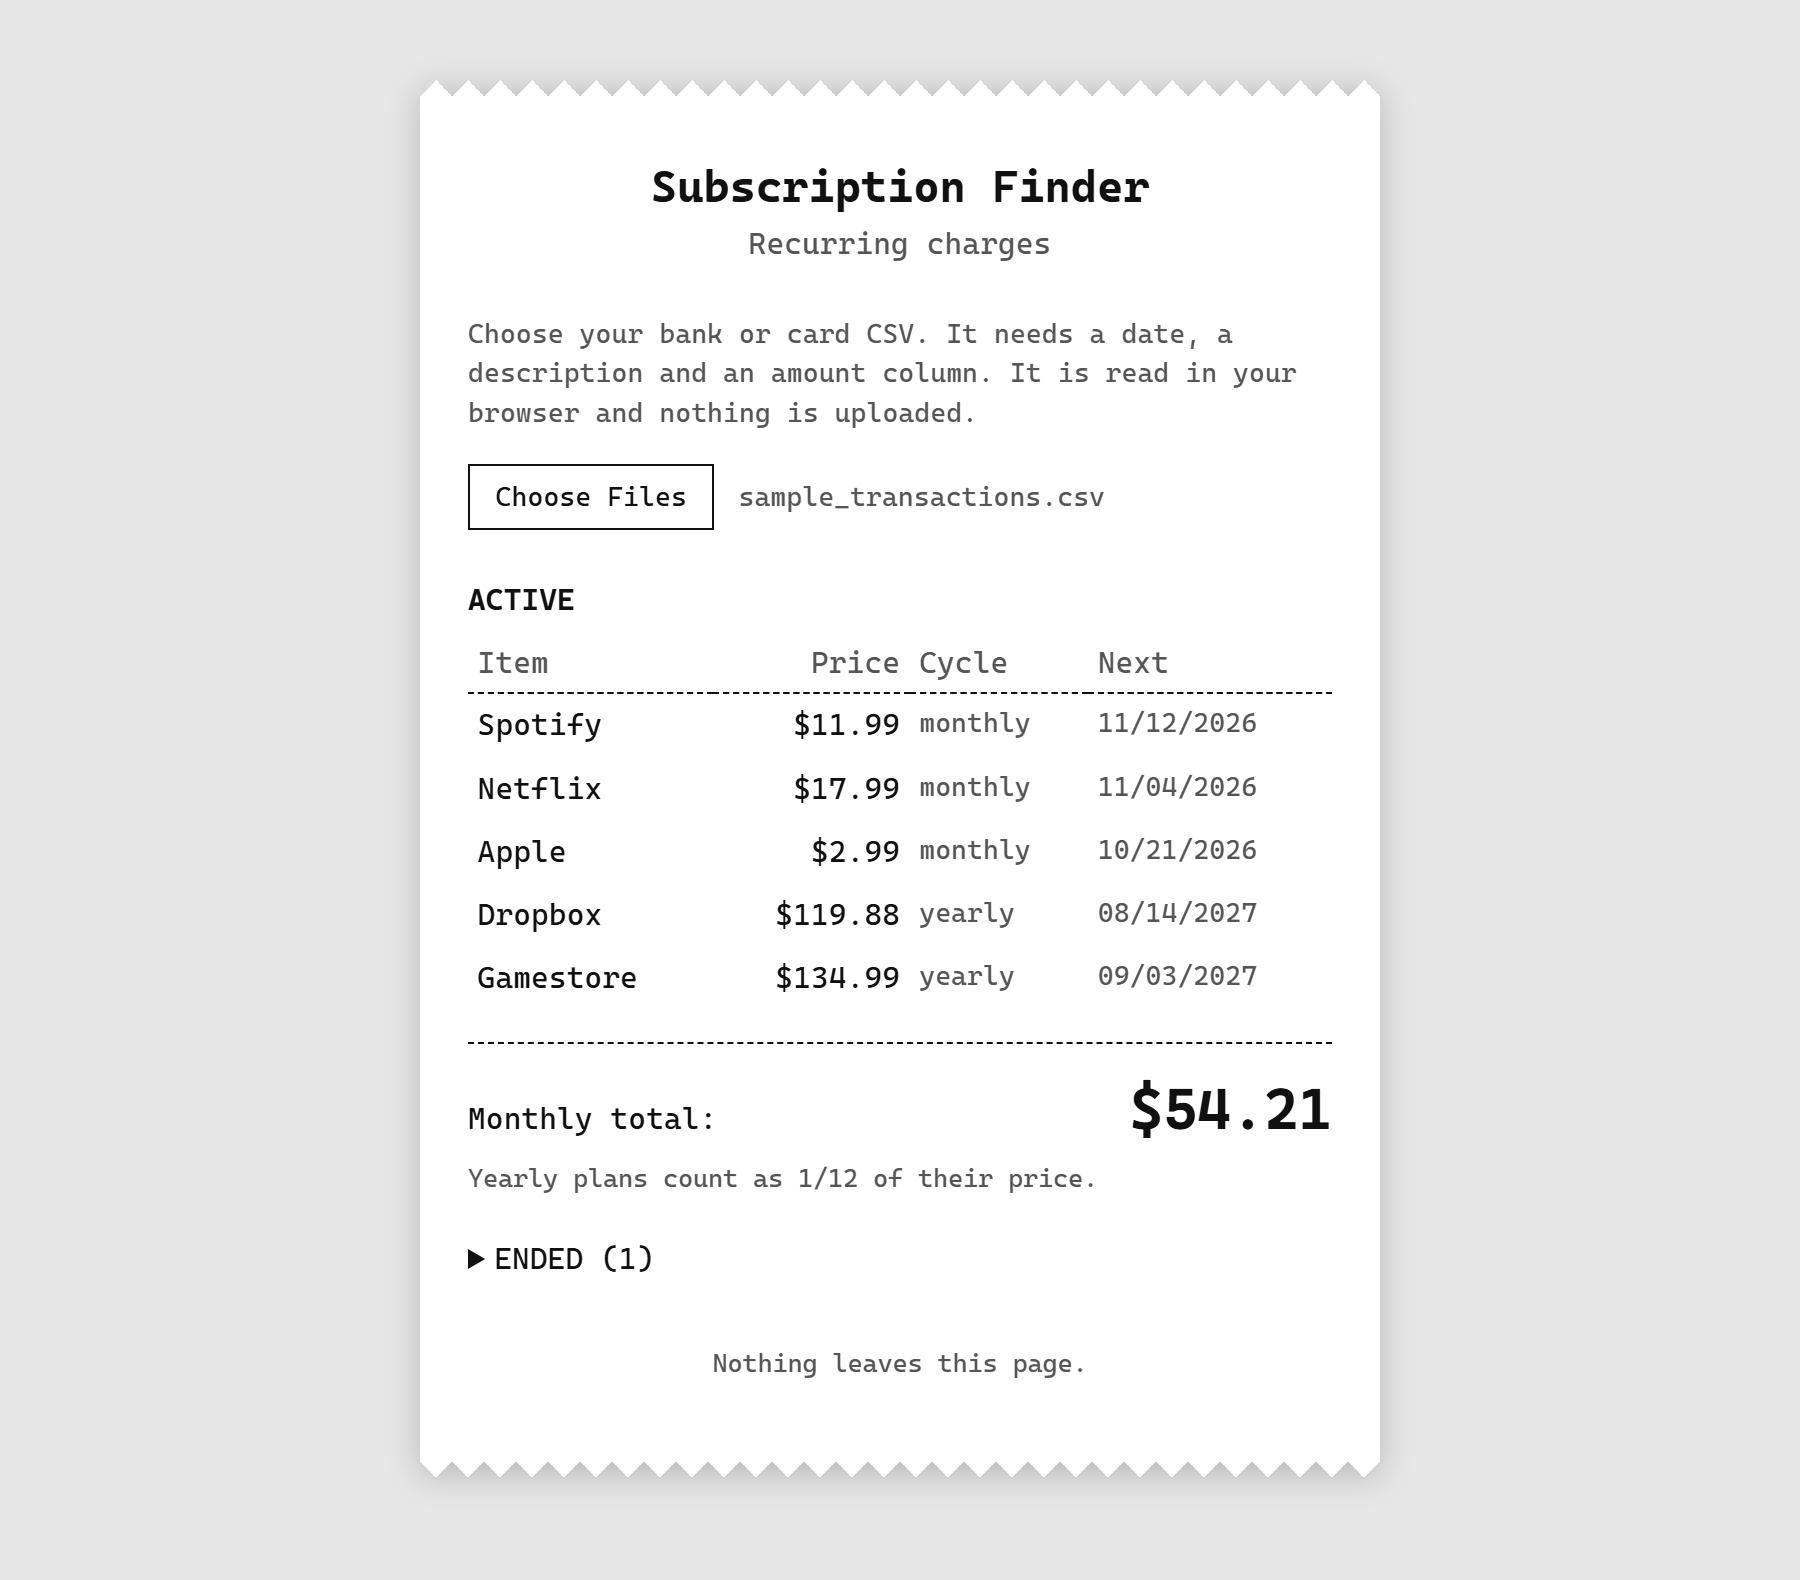
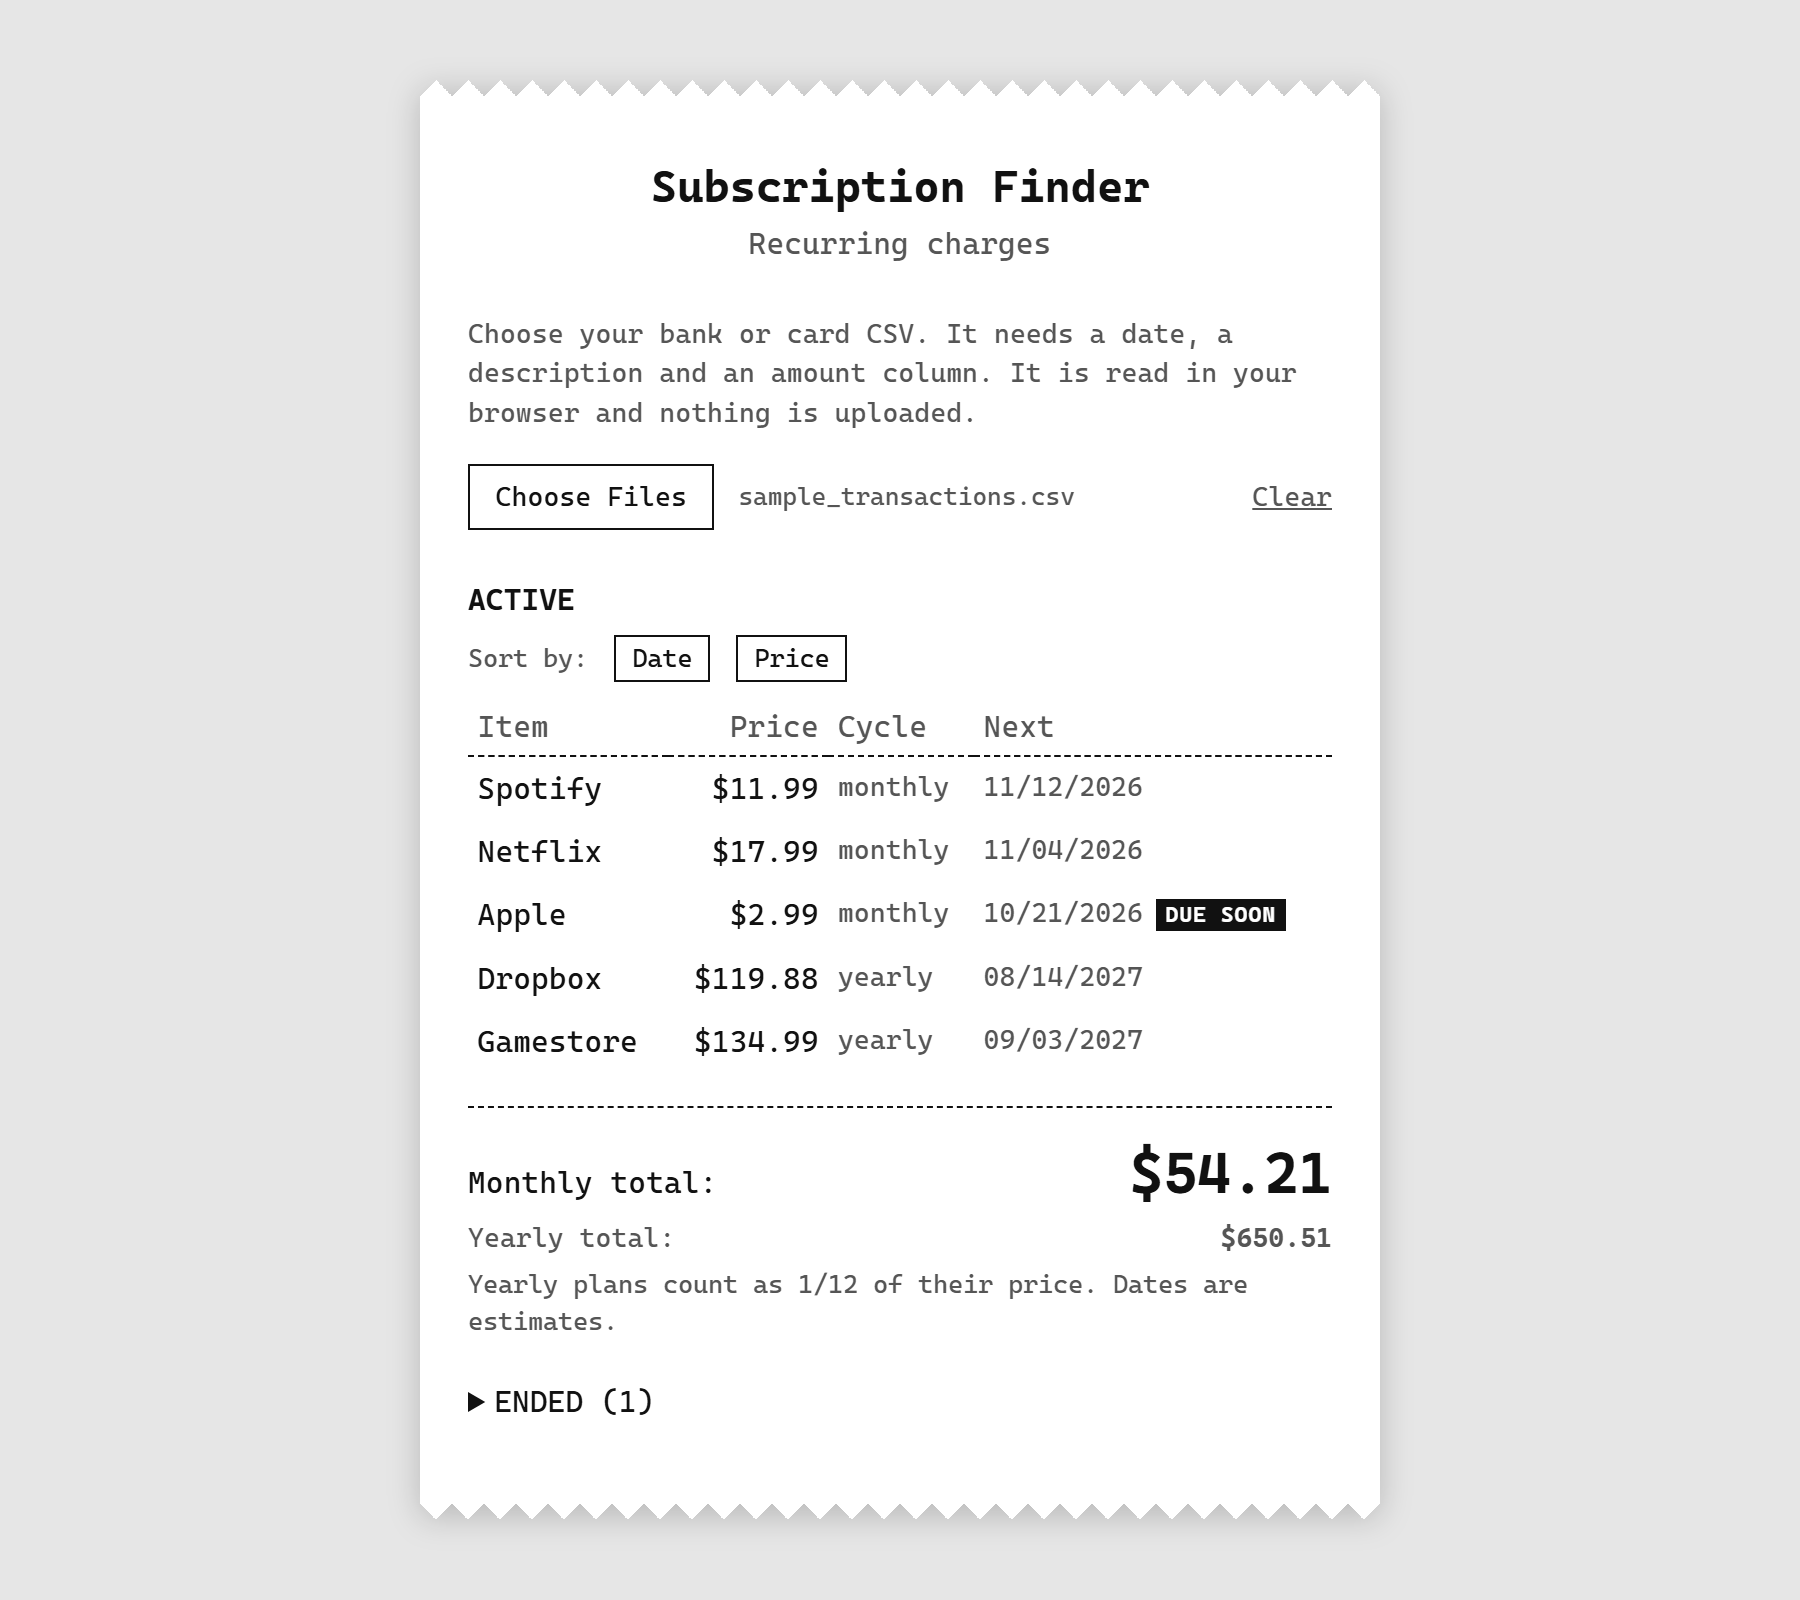
Add sample data button, update README and screenshot, add license

diff --git a/docs/app.js b/docs/app.js
@@ -7,6 +7,8 @@ const endedSummary = document.getElementById("ended-summary");
 const totalEl = document.getElementById("total");
 const fileNames = document.getElementById("file-names");
 const clearButton = document.getElementById("clear-files");
+const sampleLine = document.getElementById("sample-line");
+const sampleButton = document.getElementById("sample-button");
 
 function parseFile(file) {
   return new Promise((resolve, reject) => {
@@ -193,6 +195,7 @@ const sameFile = (a, b) => a.name === b.name && a.size === b.size && a.lastModif
 async function showChosen() {
   message.textContent = "";
   clearButton.hidden = chosen.length === 0;
+  sampleLine.hidden = chosen.length > 0;
   fileNames.textContent = chosen.length ? chosen.map((f) => maskName(f.name)).join(", ") : "No file chosen";
   if (chosen.length === 0) {
     results.hidden = true;
@@ -227,4 +230,17 @@ input.addEventListener("change", () => {
 clearButton.addEventListener("click", () => {
   chosen = [];
   showChosen();
+});
+
+// loads the made-up sample from the site itself, so a visitor without a bank CSV can see how it works
+sampleButton.addEventListener("click", async () => {
+  try {
+    const response = await fetch("sample_transactions.csv");
+    if (!response.ok) throw new Error("not found");
+    const text = await response.text();
+    chosen.push(new File([text], "sample_transactions.csv", { type: "text/csv" }));
+    showChosen();
+  } catch (err) {
+    message.textContent = "Could not load the sample. Open the page from a web server, not as a file, to use it.";
+  }
 });

diff --git a/docs/style.css b/docs/style.css
@@ -95,6 +95,18 @@ h1 { margin: 0; font-size: 1.4rem; line-height: 1.2; }
 #clear-files:hover { color: var(--ink); }
 #clear-files[hidden] { display: none; }
 
+.sample { margin: 0.6rem 0 0; color: var(--faded); font-size: 0.8rem; }
+#sample-button {
+  padding: 0;
+  border: 0;
+  background: none;
+  color: var(--ink);
+  font: inherit;
+  text-decoration: underline;
+  cursor: pointer;
+}
+#sample-button:hover { font-weight: 700; }
+
 #message { margin: 0.75rem 0 0; font-weight: 700; }
 #message:empty { display: none; }
 

diff --git a/docs/index.html b/docs/index.html
@@ -21,6 +21,7 @@
       <span id="file-names">No file chosen</span>
       <button type="button" id="clear-files" hidden>Clear</button>
     </div>
+    <p class="sample" id="sample-line">No CSV handy? <button type="button" id="sample-button">Try sample data</button></p>
     <p id="message"></p>
 
     <div id="results" hidden>

diff --git a/README.md b/README.md
@@ -1,28 +1,48 @@
 # Subscription Finder
 
-I wanted to know what I was paying for every month without scrolling through a year of bank transactions. This reads a bank statement CSV and finds the recurring charges, so it can tell me which subscriptions I have, what each costs, when the next charge is coming, and what the monthly total is.
+I wanted to know what I was paying for every month without scrolling through a year of bank transactions. This reads a bank statement CSV and finds the recurring charges, so it can tell me which subscriptions I have, what each costs, when the next charge is coming, and what the monthly and yearly totals are.
 
-There are two versions that do the same thing: a Python script, and a web page that runs entirely in the browser.
+There are two versions that do the same job: a Python script, and a web page that runs entirely in the browser.
 
-![The web version showing five active subscriptions and a monthly total](docs/screenshot.png)
+![The web version showing five active subscriptions, a due-soon tag, and monthly and yearly totals](docs/screenshot.png)
 
 ## Web version
 
 **Live page:** https://readtheterms.github.io/subscription-finder/
 
-Choose a CSV and the page prints a receipt of your active subscriptions with a monthly total. Ended ones are collapsed at the bottom. The file is read in your browser with JavaScript. It is never uploaded, and there is no server.
+No bank CSV handy? Click **Try sample data** on the page to load made-up transactions.
+
+Choose a CSV and the page prints a receipt of your active subscriptions. Ended ones are collapsed at the bottom. The file is read in your browser with JavaScript. It is never uploaded, and there is no server.
+
+What you can do on the page:
+
+- **Add several files.** Each file you choose is added to the list, and each is read on its own, so they can come from different banks. **Clear** starts over.
+- **Hide a row.** Click a row to gray it out and leave it out of the totals, for charges that repeat but are not really subscriptions. Click it again to count it. Hiding resets when you load new files.
+- **Sort** by date or by price. Clicking the same button again reverses the order.
+- **Read the tags.** `DUE SOON` means the estimated next charge is within 7 days of today. `OVERDUE` means the expected date passed and no new charge showed up.
+- **Check the totals.** The monthly total counts yearly plans as 1/12 of their price. The yearly total is the monthly prices times 12 plus the yearly prices. Hidden and ended rows are left out of both.
+
+File names are shown with a 4-digit account number masked, so `Chase9113_Activity_20261014.csv` appears as `Chase••••_Activity_20261014.csv`.
 
 To run it locally, serve the `docs` folder:
 
     python -m http.server 8000 --directory docs
 
-then open http://localhost:8000. Opening `docs/index.html` directly also works. Try `docs/sample_transactions.csv`, which is made-up data.
+then open http://localhost:8000. The sample button needs the page to be served like this (or the live page), because it loads the sample over the network. Opening `docs/index.html` directly still works for choosing your own files.
+
+### Other banks
 
 It looks at the header row to find the date, description, and amount columns, so it is not tied to Chase. It also handles a separate Debit column, dates like `10/13/2026` or `2026-10-13`, amounts like `$1,234.50`, cards that list purchases as positive numbers, and files with no header row at all. `docs/samples/` has the same fake transactions in several bank-style layouts. Those layouts were written from memory and have not been checked against real exports.
 
-Merchant names are shown as company names (`SPOTIFY USA 877-778-1161 NY` becomes `Spotify`) using a list of well-known companies plus some cleanup for the rest. The cleanup is a guess, so an unknown merchant can keep a city in its name.
+### Company names
 
-The logic is in `docs/finder.js`, and each function there matches one in `main.py`. I checked it by running both on the same CSVs and comparing the output line by line.
+Merchant names are shown as company names (`SPOTIFY USA 877-778-1161 NY` becomes `Spotify`). They come from a hand-written list of subscription services, banks, and shops in `docs/finder.js`, plus the 2014 Fortune 500 in `docs/companies.js`, plus some cleanup for everything else. The cleanup is a guess, so an unknown merchant can keep a city in its name.
+
+### Code
+
+The detection logic is in `docs/finder.js`, and each function there matches one in `main.py`. I checked it by running both on the same CSVs and comparing the output line by line. `docs/app.js` is the page itself.
+
+The web version has gone beyond the script in a few ways: more banks, a longer skip list, company names, and the page features above. So the two can differ on messy files. `main.py` is the original, and the web version is the one I keep improving.
 
 ## Python version
 
@@ -60,20 +80,26 @@ A group counts as a yearly subscription if it has at least 2 charges, every gap 
 
 If a merchant's charges don't look like a subscription as a whole, the script splits them by exact price and checks each price separately. That is how a yearly charge hiding inside a merchant with many other purchases (like a PayPal gamestore) gets found.
 
-A monthly subscription is active if its last charge is within 40 days of the newest date in the file, and a yearly one within 380 days. Otherwise it is listed as ended. The next charge date is the last charge plus 30 days (365 for yearly), so it is an estimate. Yearly prices count as 1/12 in the monthly total.
+A monthly subscription is active if its last charge is within 40 days of the newest date in the file, and a yearly one within 380 days. Otherwise it is listed as ended. The next charge date is the last charge plus 30 days (365 for yearly), so it is an estimate.
 
-Deposits and refunds are ignored. Zelle, bank transfers, and credit card payments repeat every month too, but they aren't subscriptions, so they are skipped using a short list of name prefixes in `SKIP`.
+Deposits and refunds are ignored. Zelle, bank transfers, and some credit card payments repeat every month too, but they aren't subscriptions, so they are skipped using a short list of name prefixes in `SKIP`. Anything not on that list still shows up, and in the web version you can hide it with a click.
 
 ## Limits
 
 - It only finds monthly and yearly charges. Weekly ones are missed.
 - If a merchant changes the name on the statement, the old and new names show up as separate entries, and only the newest one is marked active.
 - The 15-letter key can merge different merchants that start the same way, or split one merchant whose name changes early. I picked 15 by trying it on real data.
-- The skip list is hand-written, so a credit card I haven't listed would show up as a subscription.
-- The Python script only reads Chase's column names. The web version handles other layouts, but those layouts haven't been checked against real exports from other banks.
+- The skip list is hand-written, so a lender or card I haven't listed shows up as a subscription. Bills like rent, insurance, and utilities can also show up, since they repeat monthly too.
+- If two files cover the same dates, the same transaction is counted twice. That can hide a real subscription, so avoid overlapping exports.
 - Dates are read as month/day/year. A file with day/month/year dates would be read wrong.
-- It has only been tried on one person's Chase exports.
+- `DUE SOON` uses today's date from your computer, while `OVERDUE` compares against the newest date in the file.
+- The Python script only reads Chase's column names. The web version handles other layouts, but those layouts haven't been checked against real exports from other banks.
+- It has only been tried on a few people's Chase exports.
 
 ## Privacy
 
-Real statements are never committed. `.gitignore` blocks every `.csv` file except the made-up samples in `sample_transactions.csv`, `docs/sample_transactions.csv`, and `docs/samples/`. The web version never sends your file anywhere. The only network request it makes is loading the Papa Parse CSV library from a CDN.
+Real statements are never committed. `.gitignore` blocks every `.csv` file except the made-up samples in `sample_transactions.csv`, `docs/sample_transactions.csv`, and `docs/samples/`. The web version never sends your file anywhere. The only network request it makes is loading the Papa Parse CSV library from a CDN, and the sample button's request for the sample file from the site itself.
+
+## License
+
+MIT. See `LICENSE`.
